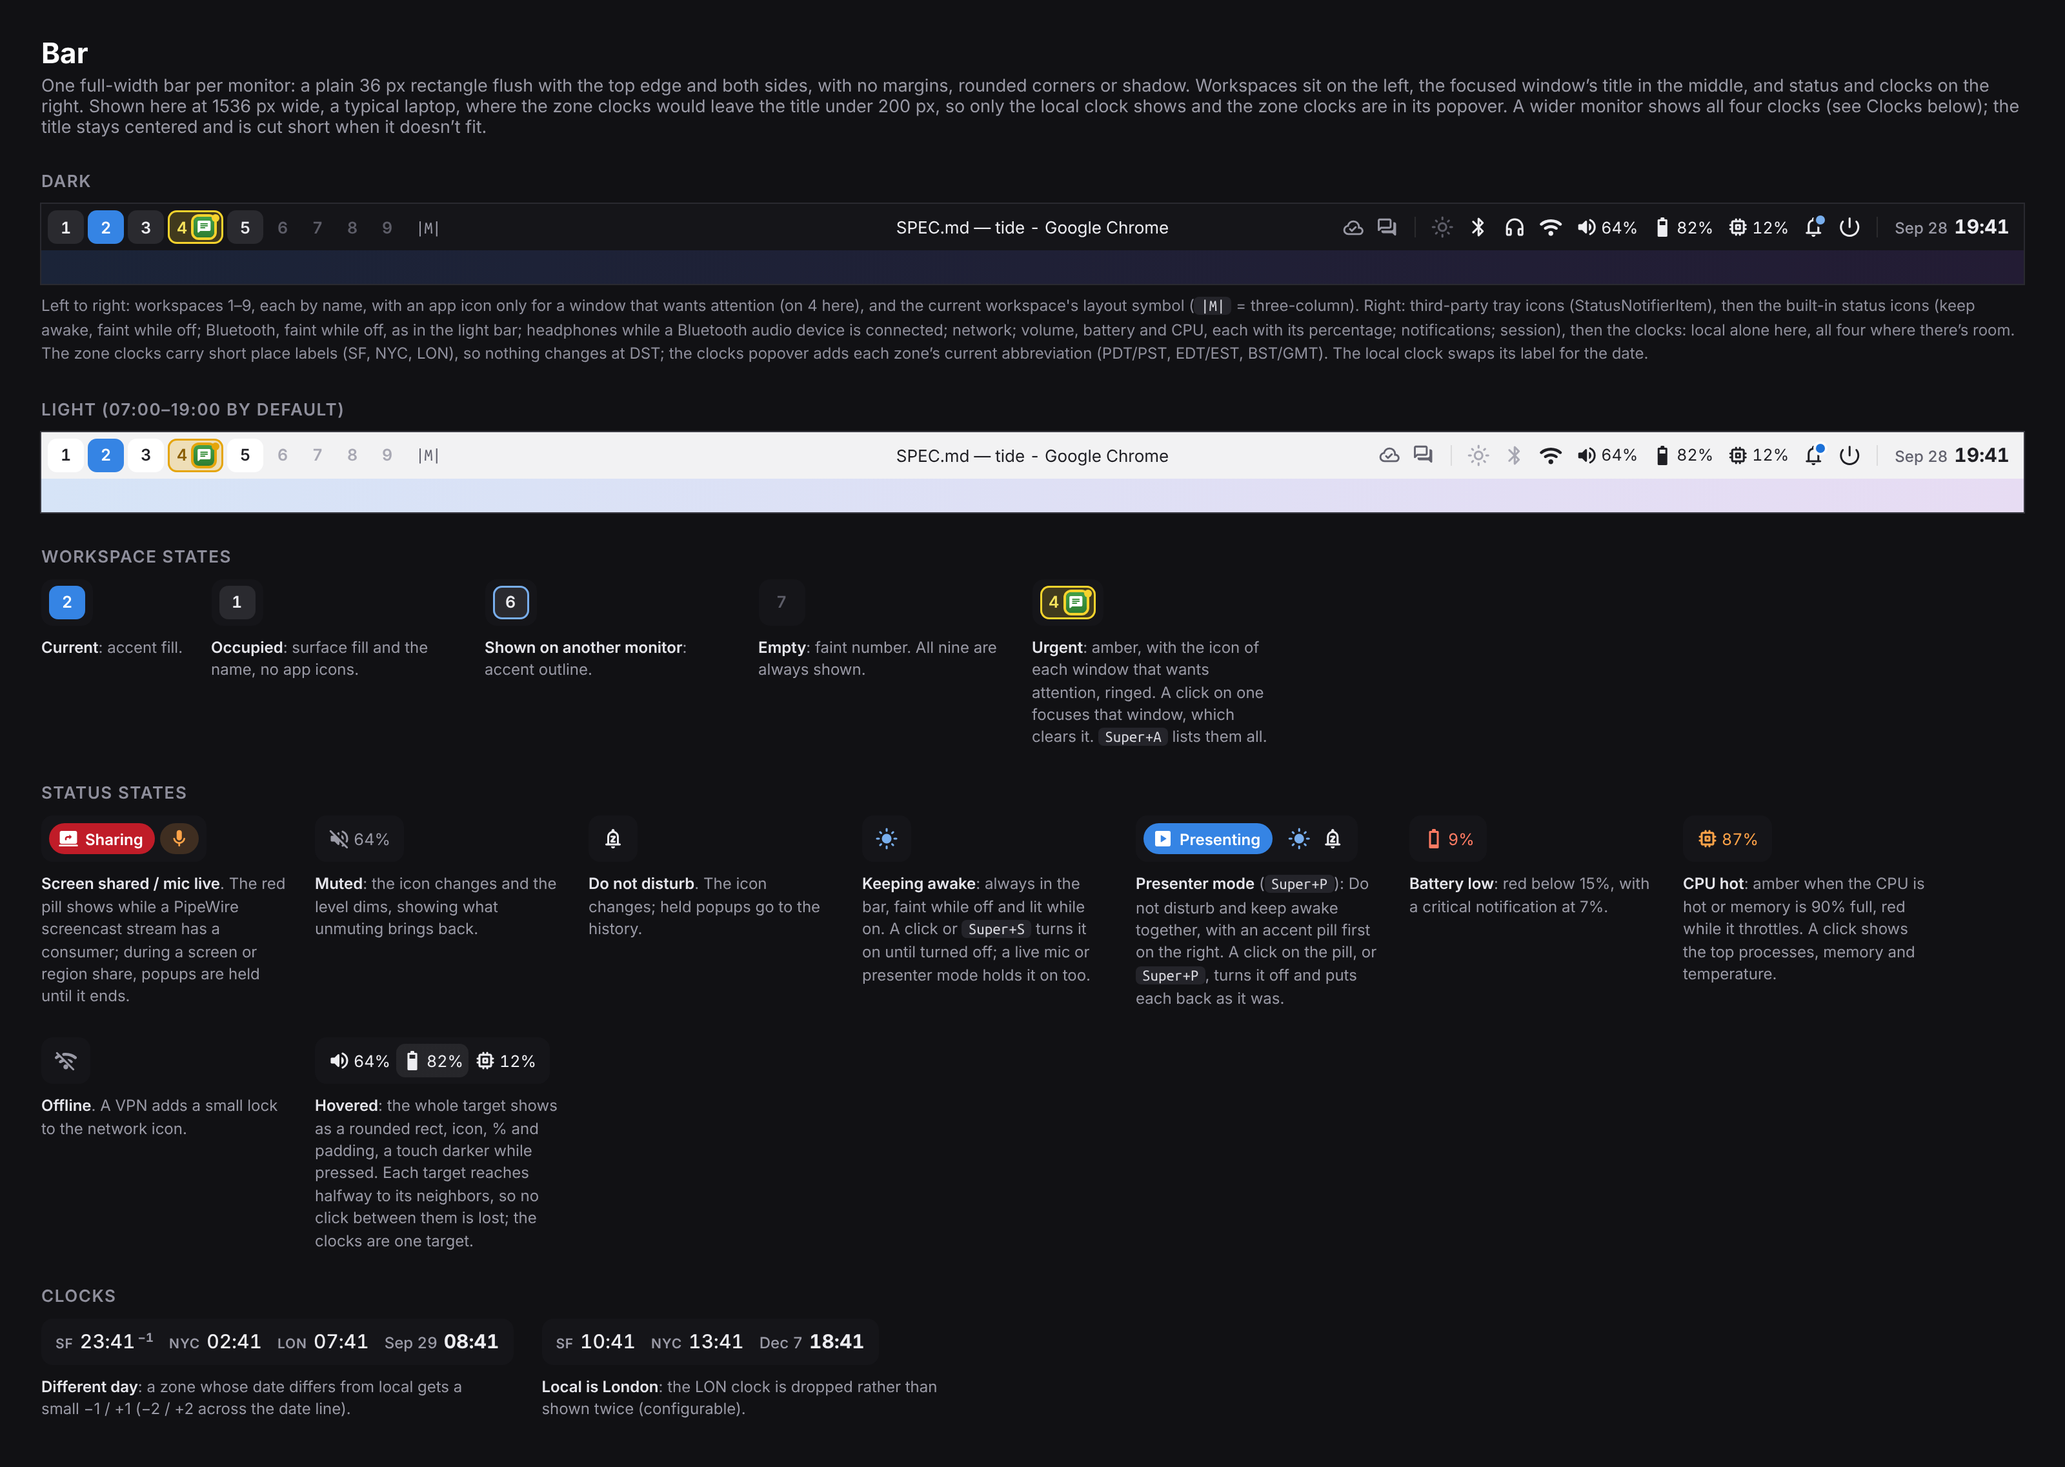
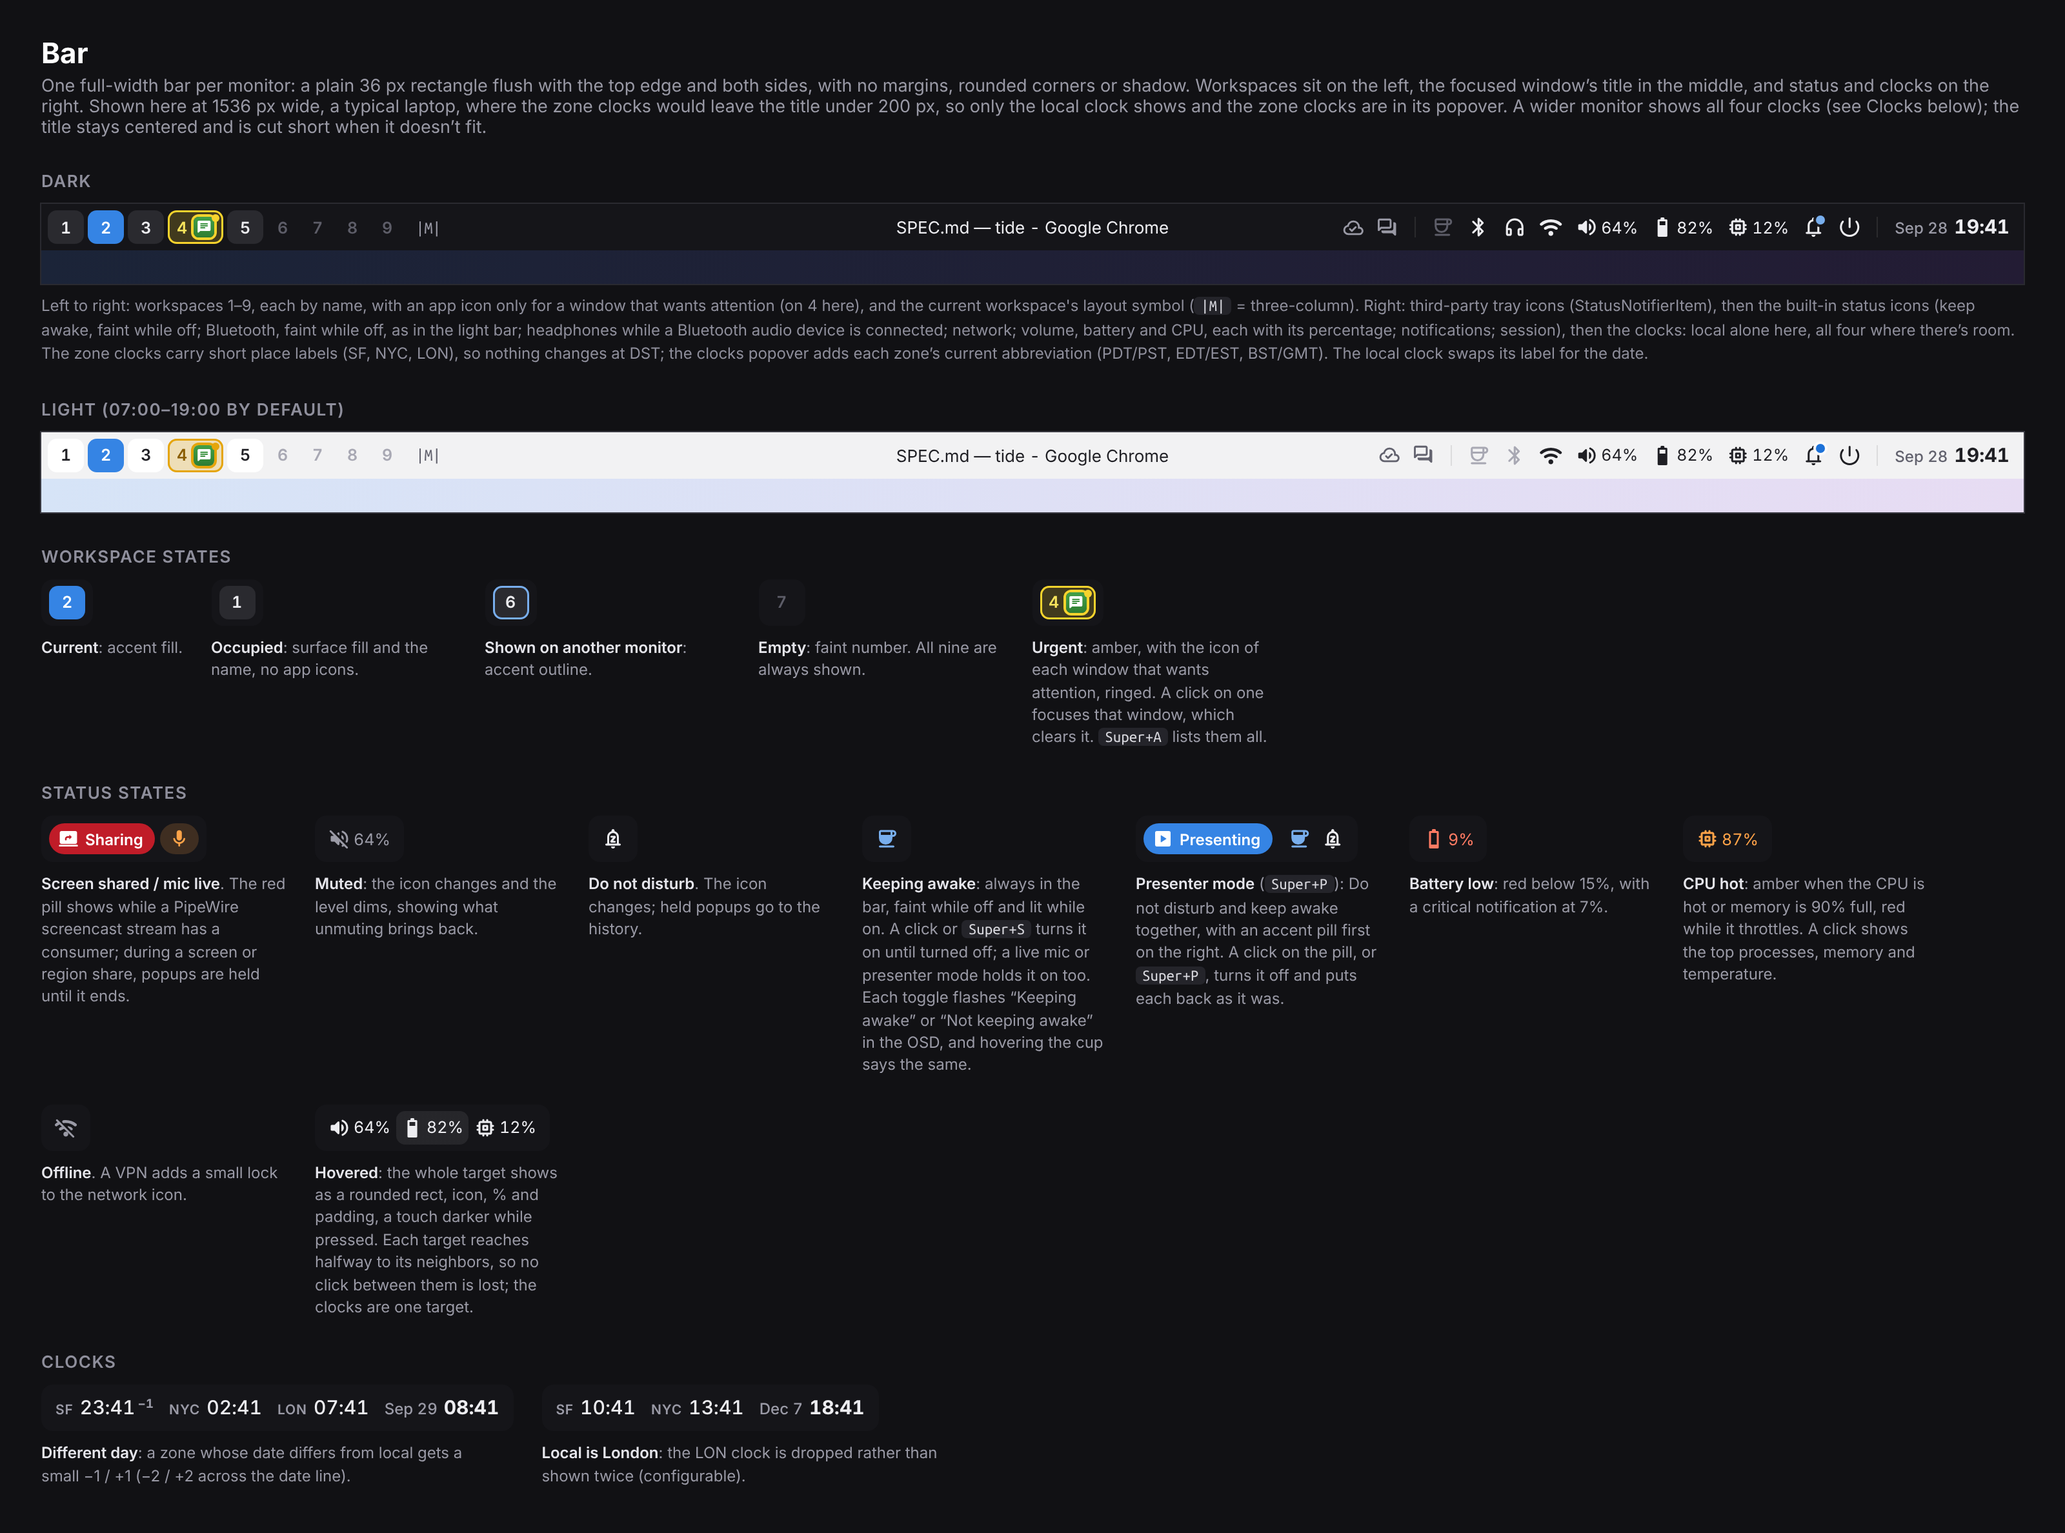
Show keep awake as a coffee cup that says what it's doing
Keep awake was the sun, the same icon as brightness, and only Super+S
said anything: a bar click gave no feedback and hovering gave none. It's
now tilemo's cup of coffee on the bar, the OSD and the switcher, one of
tide's own icons since Adwaita has none. Every toggle (Super+S, the bar
and the switcher) flashes tilemo's words in the OSD, "Keeping awake" or
"Not keeping awake", or what holds it when you didn't ask, and hovering
over the cup says the same. A SymbolicIcon name ending in .svg is now one
of tide's own icons, so the OSD and switcher can name the cup, and the
icons test finds those names too.

Claude-Session: https://claude.ai/code/session_016zevajgQL522MsCbogqdxR

diff --git a/docs/mocks/bar.html b/docs/mocks/bar.html
@@ -44,7 +44,7 @@
         <span class="sicon dim"><i class="ms">forum</i></span>
       </div>
       <span class="sep"></span>
-      <span class="sicon" style="color:var(--fg-faint)"><i class="ms">light_mode</i></span>
+      <span class="sicon" style="color:var(--fg-faint)"><i class="ms">coffee</i></span>
       <span class="sicon"><i class="ms">bluetooth</i></span>
       <span class="sicon"><i class="ms">headphones</i></span>
       <span class="sicon"><i class="ms fill">wifi</i></span>
@@ -85,7 +85,7 @@
         <span class="sicon dim"><i class="ms">forum</i></span>
       </div>
       <span class="sep"></span>
-      <span class="sicon" style="color:var(--fg-faint)"><i class="ms">light_mode</i></span>
+      <span class="sicon" style="color:var(--fg-faint)"><i class="ms">coffee</i></span>
       <span class="sicon" style="color:var(--fg-faint)"><i class="ms">bluetooth</i></span>
       <span class="sicon"><i class="ms fill">wifi</i></span>
       <span class="sicon"><i class="ms fill">volume_up</i>64%</span>
@@ -116,8 +116,8 @@
   <div class="chip"><div class="bar"><span class="pill share"><i class="ms fill">screen_share</i>Sharing</span><span style="width:4px"></span><span class="pill mic"><i class="ms fill">mic</i></span></div><div class="cap"><b>Screen shared / mic live</b>. The red pill shows while a PipeWire screencast stream has a consumer; during a screen or region share, popups are held until it ends.</div></div>
   <div class="chip"><div class="bar"><span class="sicon" style="color:var(--fg-dim)"><i class="ms fill">volume_off</i>64%</span></div><div class="cap"><b>Muted</b>: the icon changes and the level dims, showing what unmuting brings back.</div></div>
   <div class="chip"><div class="bar"><span class="sicon"><i class="ms">notifications_paused</i></span></div><div class="cap"><b>Do not disturb</b>. The icon changes; held popups go to the history.</div></div>
-  <div class="chip"><div class="bar"><span class="sicon" style="color:var(--accent)"><i class="ms fill">light_mode</i></span></div><div class="cap"><b>Keeping awake</b>: always in the bar, faint while off and lit while on. A click or <kbd>Super+S</kbd> turns it on until turned off; a live mic or presenter mode holds it on too.</div></div>
-  <div class="chip"><div class="bar"><span class="pill present"><i class="ms fill">slideshow</i>Presenting</span><span style="width:8px"></span><span class="sicon" style="color:var(--accent)"><i class="ms fill">light_mode</i></span><span class="sicon"><i class="ms">notifications_paused</i></span></div><div class="cap"><b>Presenter mode</b> (<kbd>Super+P</kbd>): Do not disturb and keep awake together, with an accent pill first on the right. A click on the pill, or <kbd>Super+P</kbd>, turns it off and puts each back as it was.</div></div>
+  <div class="chip"><div class="bar"><span class="sicon" style="color:var(--accent)"><i class="ms fill">coffee</i></span></div><div class="cap"><b>Keeping awake</b>: always in the bar, faint while off and lit while on. A click or <kbd>Super+S</kbd> turns it on until turned off; a live mic or presenter mode holds it on too. Each toggle flashes “Keeping awake” or “Not keeping awake” in the OSD, and hovering the cup says the same.</div></div>
+  <div class="chip"><div class="bar"><span class="pill present"><i class="ms fill">slideshow</i>Presenting</span><span style="width:8px"></span><span class="sicon" style="color:var(--accent)"><i class="ms fill">coffee</i></span><span class="sicon"><i class="ms">notifications_paused</i></span></div><div class="cap"><b>Presenter mode</b> (<kbd>Super+P</kbd>): Do not disturb and keep awake together, with an accent pill first on the right. A click on the pill, or <kbd>Super+P</kbd>, turns it off and puts each back as it was.</div></div>
   <div class="chip"><div class="bar"><span class="sicon low"><i class="ms fill">battery_1_bar</i>9%</span></div><div class="cap"><b>Battery low</b>: red below 15%, with a critical notification at 7%.</div></div>
   <div class="chip"><div class="bar"><span class="sicon" style="color:var(--warn)"><i class="ms">memory</i>87%</span></div><div class="cap"><b>CPU hot</b>: amber when the CPU is hot or memory is 90% full, red while it throttles. A click shows the top processes, memory and temperature.</div></div>
   <div class="chip"><div class="bar"><span class="sicon dim"><i class="ms">wifi_off</i></span></div><div class="cap"><b>Offline</b>. A VPN adds a small lock to the network icon.</div></div>

diff --git a/docs/mocks/narrow.html b/docs/mocks/narrow.html
@@ -35,7 +35,7 @@
         <span class="sicon dim"><i class="ms">forum</i></span>
       </div>
       <span class="sep"></span>
-      <span class="sicon" style="color:var(--fg-faint)"><i class="ms">light_mode</i></span>
+      <span class="sicon" style="color:var(--fg-faint)"><i class="ms">coffee</i></span>
       <span class="sicon"><i class="ms">bluetooth</i></span>
       <span class="sicon"><i class="ms fill">wifi</i></span>
       <span class="sicon"><i class="ms fill">volume_up</i>64%</span>
@@ -76,7 +76,7 @@
         <span class="sicon dim"><i class="ms">forum</i></span>
       </div>
       <span class="sep"></span>
-      <span class="sicon" style="color:var(--fg-faint)"><i class="ms">light_mode</i></span>
+      <span class="sicon" style="color:var(--fg-faint)"><i class="ms">coffee</i></span>
       <span class="sicon"><i class="ms">bluetooth</i></span>
       <span class="sicon"><i class="ms fill">wifi</i></span>
       <span class="sicon"><i class="ms fill">volume_up</i></span>
@@ -117,7 +117,7 @@
         <span class="sicon dim"><i class="ms">forum</i></span>
       </div>
       <span class="sep"></span>
-      <span class="sicon" style="color:var(--fg-faint)"><i class="ms">light_mode</i></span>
+      <span class="sicon" style="color:var(--fg-faint)"><i class="ms">coffee</i></span>
       <span class="sicon"><i class="ms">bluetooth</i></span>
       <span class="sicon"><i class="ms fill">wifi</i></span>
       <span class="sicon"><i class="ms fill">volume_up</i>64%</span>
@@ -155,7 +155,7 @@
         <span class="sicon dim"><i class="ms">forum</i></span>
       </div>
       <span class="sep"></span>
-      <span class="sicon" style="color:var(--fg-faint)"><i class="ms">light_mode</i></span>
+      <span class="sicon" style="color:var(--fg-faint)"><i class="ms">coffee</i></span>
       <span class="sicon"><i class="ms">bluetooth</i></span>
       <span class="sicon"><i class="ms fill">wifi</i></span>
       <span class="sicon"><i class="ms fill">volume_up</i></span>
@@ -193,7 +193,7 @@
         <span class="sicon dim"><i class="ms">forum</i></span>
       </div>
       <span class="sep"></span>
-      <span class="sicon" style="color:var(--fg-faint)"><i class="ms">light_mode</i></span>
+      <span class="sicon" style="color:var(--fg-faint)"><i class="ms">coffee</i></span>
       <span class="sicon"><i class="ms">bluetooth</i></span>
       <span class="sicon"><i class="ms fill">wifi</i></span>
       <span class="sicon"><i class="ms fill">volume_up</i>64%</span>

diff --git a/shell/StatusIcons.qml b/shell/StatusIcons.qml
@@ -6,6 +6,7 @@ import Quickshell.Services.Pipewire
 import Quickshell.Services.UPower
 import "lib/barclick.mjs" as Click
 import "lib/bluetooth.mjs" as Bt
+import "lib/keepawake.mjs" as KeepAwake
 import "lib/network.mjs" as Net
 import "lib/status.mjs" as Status
 
@@ -52,14 +53,15 @@ Row {
         objects: [root.sink]
     }
 
-    // Keep awake: always here, faint while off and in the accent color
-    // while on, whether you asked, the mic is live or you're presenting. A
-    // click turns your request on, until the next click turns it off.
+    // Keep awake: a cup of coffee, always here, faint while off and in the
+    // accent color while on, whether you asked, the mic is live or you're
+    // presenting. A click turns your request on, until the next click turns
+    // it off, and the OSD says what it did; hovering says what it's doing.
     SymbolicIcon {
         id: keepAwake
 
         anchors.verticalCenter: parent.verticalCenter
-        name: "display-brightness-symbolic"
+        name: KeepAwake.ICON
         color: KeepAwakeData.on ? Theme.accent : Theme.fgFaint
 
         BarHit {
@@ -67,6 +69,40 @@ Row {
 
             TapHandler {
                 onTapped: KeepAwakeData.toggle()
+            }
+        }
+
+        // A HoverHandler takes no clicks, so the tap still lands.
+        HoverHandler {
+            id: keepAwakeHover
+        }
+
+        PopupWindow {
+            visible: keepAwakeHover.hovered
+            anchor.item: keepAwake
+            anchor.edges: Edges.Bottom
+            anchor.gravity: Edges.Bottom
+            anchor.margins.bottom: -8
+            color: "transparent"
+            implicitWidth: keepAwakeTip.implicitWidth + 18
+            implicitHeight: keepAwakeTip.implicitHeight + 10
+
+            Rectangle {
+                anchors.fill: parent
+                radius: 7
+                color: Theme.surface2
+                border.color: Theme.edge
+
+                Text {
+                    id: keepAwakeTip
+
+                    anchors.centerIn: parent
+                    textFormat: Text.PlainText
+                    text: KeepAwake.sign(KeepAwakeData.state)
+                    color: Theme.fg
+                    font.family: Theme.font
+                    font.pixelSize: 12
+                }
             }
         }
     }

diff --git a/shell/KeepAwakeData.qml b/shell/KeepAwakeData.qml
@@ -24,10 +24,20 @@ Singleton {
     // Turns your request on or off. While the mic is live it stays on
     // either way; the click still decides what's left once the call ends.
     // While presenting it reads on, so a click turns it off and ends
-    // presenter mode (Presenter.keepAwakeToggled).
+    // presenter mode (Presenter.keepAwakeToggled). The OSD then says what
+    // it's doing, from Super+S, the bar's cup or the switcher alike, since
+    // the bar's icon may be on another monitor.
     function toggle() {
         PresenterData.apply(Presenter.keepAwakeToggled(PresenterData.parts(), NotificationData.enabled));
+        OsdData.show(Osd.keepAwakePill(root.state));
     }
+
+    // What's holding it, as KeepAwake.sign and the OSD take it.
+    readonly property var state: ({
+        on: root.on,
+        asked: root.asked,
+        presenting: PresenterData.on
+    })
 
     // Your own toggle, for PresenterData.apply.
     function setAsked(on) {
@@ -35,8 +45,7 @@ Singleton {
         held.until = 0;
     }
 
-    // `qs -c tide ipc call keepawake toggle`, from Super+S. The OSD says
-    // what it did, since the bar's icon may be on another monitor.
+    // `qs -c tide ipc call keepawake toggle`, from Super+S.
     // `status` says whether it's in effect, "on" or "off".
     IpcHandler {
         target: "keepawake"
@@ -47,11 +56,6 @@ Singleton {
 
         function toggle(): void {
             root.toggle();
-            OsdData.show(Osd.keepAwakePill({
-                on: root.on,
-                asked: root.asked,
-                presenting: PresenterData.on
-            }));
         }
     }
 

diff --git a/shell/SymbolicIcon.qml b/shell/SymbolicIcon.qml
@@ -5,7 +5,8 @@ import Quickshell.Widgets
 
 // A symbolic icon from the desktop's icon theme in `color`, or, with `file`,
 // one of tide's own from shell/icons, for the few the theme has no icon for
-// (SPEC.md §15). Symbolic icons come drawn in near-black, and colorizing
+// (SPEC.md §15). A `name` ending in .svg is one of tide's own too, so data
+// that names an icon (an OSD pill, a switcher row) can name either kind. Symbolic icons come drawn in near-black, and colorizing
 // keeps their darkness, so the icon is only a mask: its alpha cuts a fill
 // of `color`.
 Item {
@@ -31,7 +32,9 @@ Item {
         id: icon
 
         anchors.fill: parent
-        source: root.file !== "" ? Qt.resolvedUrl("icons/" + root.file) : Quickshell.iconPath(root.name, true)
+        source: root.file !== "" ? Qt.resolvedUrl("icons/" + root.file)
+            : root.name.endsWith(".svg") ? Qt.resolvedUrl("icons/" + root.name)
+            : Quickshell.iconPath(root.name, true)
         visible: false
         layer.enabled: true
     }

diff --git a/SPEC.md b/SPEC.md
@@ -1359,7 +1359,7 @@ See [`bar.png`](docs/mocks/bar.png).
 | Privacy: **Sharing** (red) | an xdph PipeWire screencast stream has a consumer (§12) | what is being shared (screen, window or area), and the app reading it; stop it from the app | — |
 | Privacy: mic (orange) | any app is capturing the microphone | per-app list with mute | — |
 | Tray items | SNI icons from apps | the app's menu (DBusMenu) | as the app defines |
-| Keep awake | always there: faint while off, in the accent color while on (you asked for it, presenter mode is on, or the mic is live) | turn on, or off | — |
+| Keep awake: a cup of coffee | always there: faint while off, in the accent color while on (you asked for it, presenter mode is on, or the mic is live) | turn on, or off; the OSD says which | hover: what it's doing, in the OSD's words |
 | Bluetooth | one glyph: faint while off, in the text color while on; hidden with no adapter | device list, connect/disconnect; *pair* opens `blueman-manager` | — |
 | Bluetooth audio | one icon per connected headphones, headset or speakers, beside Bluetooth | the Bluetooth popover | hover: its name and battery |
 | Network | Wi-Fi strength / wired / VPN lock / offline | network list, VPNs; *settings* opens `nm-connection-editor` | — |
@@ -2079,10 +2079,15 @@ one of them:
   never left on by accident across a login.
 - It also switches on automatically **while the microphone is live**, so an
   audio-only call with no video on screen doesn't blank.
-- **`Super+S`** toggles it as a click on the bar's icon does. The OSD (§9)
-  then says "Keep awake on" or "Keep awake off". When only a live mic
-  still holds it, it says "Awake while the mic is live", since the key
-  can't turn that off.
+- **`Super+S`** toggles it as a click on the bar's icon does, and so does
+  the switcher's Keep awake. Each time, the OSD (§9) says "Keeping awake"
+  or "Not keeping awake", as tilemo's alert does, since the bar's icon may
+  be on another monitor. When something else holds it, it says what:
+  "Keeping awake while the mic is live" or "Keeping awake while
+  presenting", since a toggle can't turn that off. Hovering over the bar's
+  icon says the same.
+- **Its icon is a cup of coffee,** on the bar, the OSD and the switcher, as
+  on tilemo. It was the sun, which is brightness's icon too.
 
 **Presenter mode** is Do not disturb (§9) and keep awake together, for a
 talk, a demo, or a meeting room's screen.
@@ -2924,7 +2929,8 @@ to be focused.
     way. So far that is the system monitor's two (Adwaita 46 has neither):
     a square chip with pins on four sides for the CPU, and a module with
     contacts along one edge for memory, the shapes people already read as
-    a processor and RAM.
+    a processor and RAM; and keep awake's cup of coffee with steam, as
+    tilemo's bar draws it.
   - The cursor theme and size are set once, in the uwsm environment, for
     every toolkit.
 
